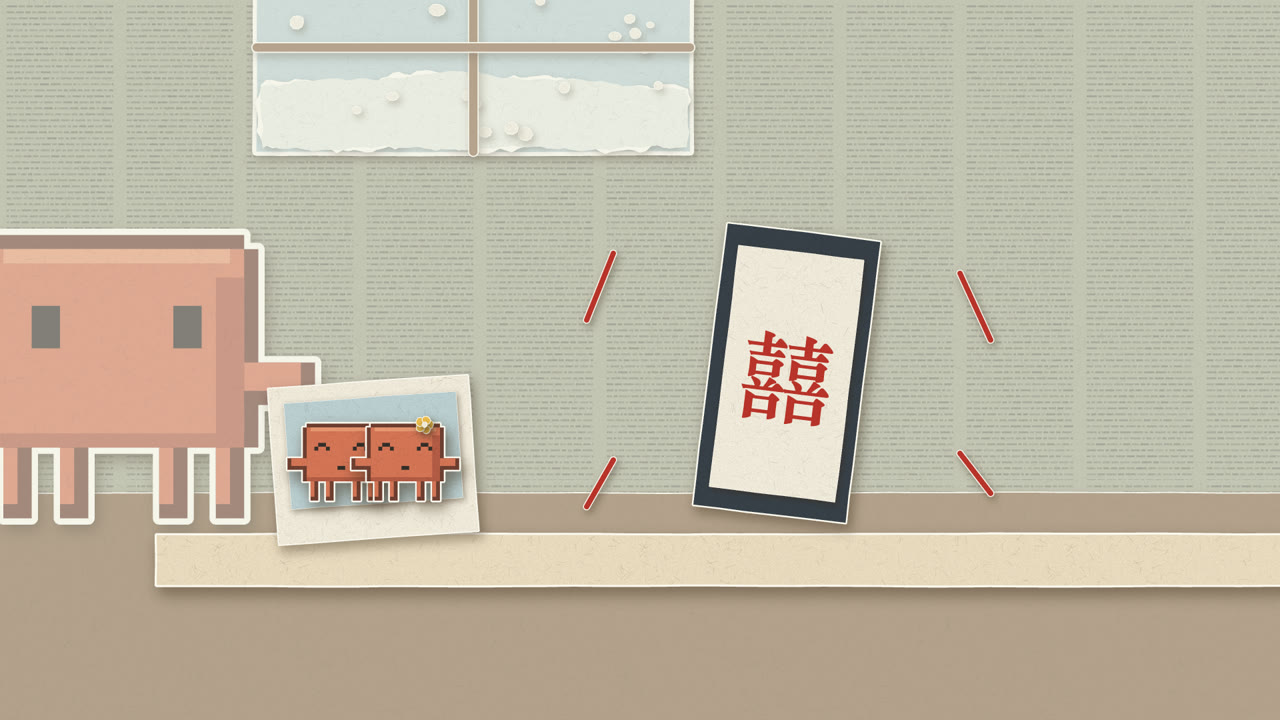
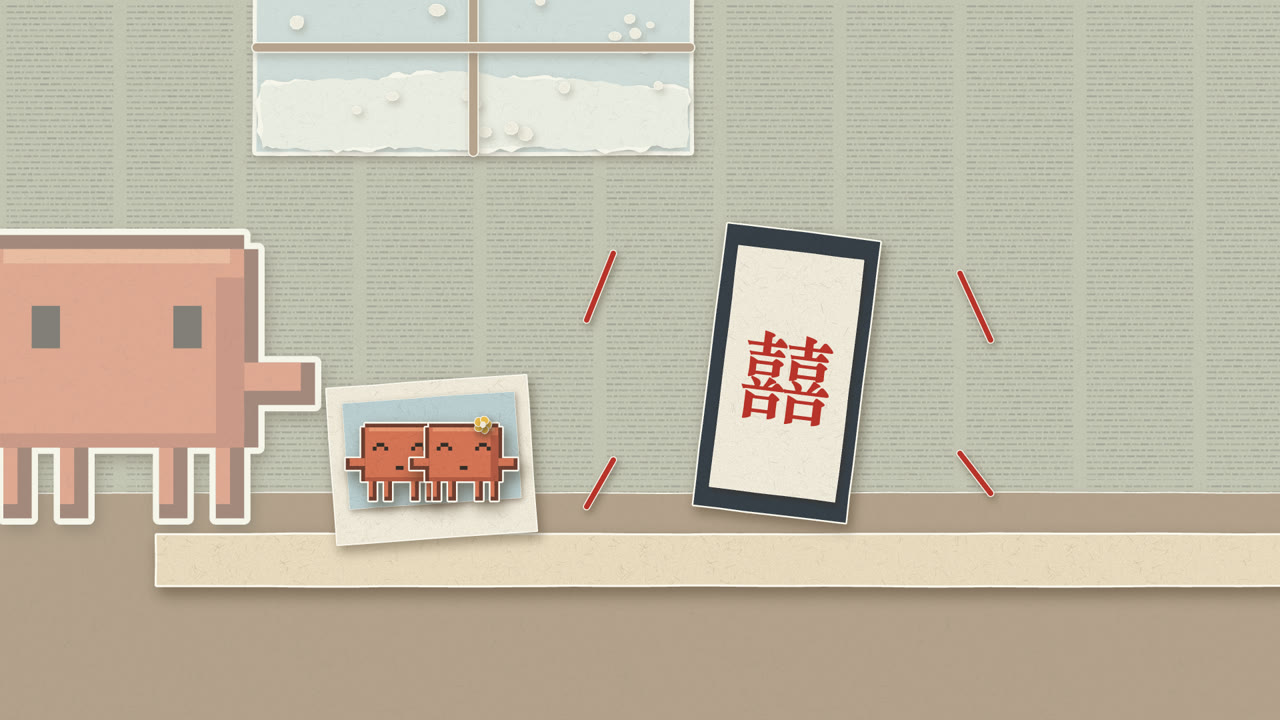
fix: correct Jiabin stills after second visual review

Changed region(s): [[0.1875, 0.5194, 0.4375, 0.7944]]

diff --git a/嘉宾/MV/poses.js b/嘉宾/MV/poses.js
@@ -29,13 +29,13 @@ const outerSill = k => {
 };
 // 礼堂只有这一个世界，近景都是同一批物件加相机。主角后面没有客人，前排也在他的正前方留出空位。
 // 相机越过前排后 front 为 false，row 为 false 时左右没有邻座。
-function hallRows(k, {clap = false, me: meOpts = {}, foot = 470, front = true, row = true, card = true, glass = true, rosette = true} = {}) {
+function hallRows(k, {clap = false, me: meOpts = {}, foot = 470, front = true, row = true, card = [1035, 478, 130, 0], glass = true, rosette = true} = {}) {
   S.hall(k, {door: true, bell: true});
   if (row) S.guests(k, 470, 6.4, [300, 480, 660, 840, 1230], {clap, seed: 3});
   const a = me(k, 1035, foot, 6.4, meOpts);
   if (rosette) S.rosette(k, a);
   S.seatTable(k, 770, 462, 1100, 'lastRow', 30);
-  if (card) S.placeCard(k, 1035, 478, 130);
+  if (card) S.placeCard(k, ...card);
   if (glass) S.glass(k, 1170, 462, 0.71);
   if (front) {
     S.guests(k, 670, 8.6, [190, 460, 730, 1320, 1580, 1780], {clap, seed: 5});
@@ -72,7 +72,7 @@ export const POSES = {
     const a = me(k, 720, 860, 17, {expression: 'sad', action: 'hold'});
     k.cut(rotated(a.grip[0] + 90, a.grip[1] - 70, 150, 170, 24), C.cream, {lift: 1.4, border: 4, name: 'calendarPage'});
     longSill(k);
-    S.oldPhoto(k, 1300, 790, 240, -4);
+    S.oldPhoto(k, 1370, 790, 240, -4);
     S.phone(k, 1796, 686, 2, {lit: false, deg: 7});
   }},
   L03: {keys: ['phone', 'phoneSign', 'photo', 'me'], draw(k) {
@@ -81,7 +81,7 @@ export const POSES = {
     me(k, 992, 860, 17);
     k.vellum(0.42);
     longSill(k);
-    S.oldPhoto(k, 1300, 790, 240, -4);
+    S.oldPhoto(k, 1370, 790, 240, -4);
     S.phone(k, 1796, 686, 2, {deg: 7});
     k.camera(960, 540, 1);
     [[920, 380, 880, 480], [1440, 410, 1486, 510], [920, 690, 880, 760], [1440, 680, 1486, 740]].forEach(([a, b, c, d]) => k.line([[a, b], [c, d]], C.red, 8, 3));
@@ -90,7 +90,7 @@ export const POSES = {
     S.roomInside(k);
     const a = me(k, 860, 900, 19, {action: 'hold'});
     longSill(k);
-    S.oldPhoto(k, 1300, 790, 240, -4);
+    S.oldPhoto(k, 1370, 790, 240, -4);
     heldPhone(k, a, 1.15);
   }},
   L05: {keys: ['me', 'bubble'], draw(k) {
@@ -265,9 +265,9 @@ export const POSES = {
     S.glass(k, a.grip[0] + 4.5, a.grip[1] + 4.5, 0.512);
   }},
   L24: {keys: ['me', 'exitDoor', 'exitSign'], draw(k) {
-    // 他把自己按低，手臂正好到桌沿高度，手臂长度不变，两手自然压在桌面上。
+    // 他把自己按低，手臂正好到桌沿高度，手臂长度不变，两手自然压在桌面上。按桌时席卡被碰歪滑开，L26 才有得扶。
     k.camera(1115, 402, 2.5);
-    const a = hallRows(k, {front: false, foot: 526, rosette: false, me: {expression: 'sad'}});
+    const a = hallRows(k, {front: false, foot: 526, rosette: false, card: [880, 478, 130, -9], me: {expression: 'sad'}});
     S.rosette(k, {chest: [a.chest[0], a.chest[1] - 16], u: a.u});
     k.camera(960, 540, 1);
     S.flakes(k, 9, 124, {x0: 1250, y0: 120, x1: 1860, y1: 760, color: C.petal, size: 26, name: 'petal'});
@@ -305,7 +305,7 @@ export const POSES = {
     k.camera(cx, cy, z);
     const a = hallRows(k, {front: false, row: false, card: false, foot: 439.8, me: {expression: 'sad', action: 'hold', deg: -7}});
     S.ticketStubs(k, 1150, 466, 0.71);
-    S.redLine(k, [world(1880, 960), world(1450, 870), a.grip], 12 / z);
+    S.redLine(k, [world(1990, 985), world(1450, 870), a.grip], 12 / z);
     k.camera(960, 540, 1);
     S.placeCard(k, 116, 753, 836, -2, 'nearCard');
   }},
@@ -343,14 +343,14 @@ export const POSES = {
   L33: {keys: ['me', 'curtain', 'spotlight', 'stageFrame'], draw(k) {
     S.paperStage(k, 1);
     S.spotlight(k, 960);
-    k.line([[915.5, 140], [915.5, 797.5]], C.gold, 6, 3, 'rope');
+    k.line([[730, 140], [730, 797.5]], C.gold, 6, 3, 'rope');
     const a = me(k, 960, 830, 13, {expression: 'sad', tint: COLD});
     S.rosette(k, a);
   }},
   L34: {keys: ['me', 'curtain', 'rope'], draw(k) {
     S.paperStage(k, 0.5);
-    S.spotlight(k, 740);
-    const a = me(k, 740, 830, 13, {expression: 'sad', action: 'hold', tint: COLD});
+    S.spotlight(k, 555);
+    const a = me(k, 554.5, 830, 13, {expression: 'sad', action: 'hold', tint: COLD});
     S.rosette(k, a);
     k.line([[a.grip[0], 140], a.grip], C.gold, 6, 3, 'rope');
   }},

diff --git a/嘉宾/MV/sets.js b/嘉宾/MV/sets.js
@@ -183,10 +183,14 @@ export function sillThings(k, {photo = true, y = 800, x = 0} = {}) {
 }
 // 屋外隔窗：相机在屋外，Clawd 在窗里面向镜头。窗内是屋内同一张纸，它不随相机缩放，穿窗时不用换背景。
 export function windowOutside(k, draw, cam = [W / 2, H / 2, 1]) {
-  roomInside(k);
   k.camera(...cam);
-  [rect(30, 26, 1860, 130), rect(30, 804, 1860, 250), rect(30, 140, 396, 680), rect(1494, 140, 396, 680)].forEach(wall => k.torn(wall, C.woodDark, {lift: 0.3}));
-  for (let x = 110; x < 1880; x += 170) if (x < 420 || x > 1500) k.line([[x, 30], [x + 4, 1050]], C.branch, 4);
+  k.torn([[30, 26], [1890, 26], [1890, 1054], [30, 1054]], C.woodDark, {lift: 0.3});
+  for (let x = 110; x < 1880; x += 170) k.line([[x, 30], [x + 4, 1050]], C.branch, 4);
+  k.clipped(rect(420, 150, 1080, 660), () => {
+    k.camera(W / 2, H / 2, 1);
+    roomInside(k, {bleed: true});
+  });
+  k.camera(...cam);
   draw();
   k.line([[960, 150], [960, 810]], C.wood, 14, 4);
   k.line([[420, 480], [1500, 480]], C.wood, 14, 4);
@@ -201,9 +205,10 @@ export function frost(k, hole, seed = 5) {
   }
 }
 // 屋内：相机在窗台一侧看 Clawd，身后是墙和日历。墙和地板向右下延伸，L03 推近窗台时不露底纸。
-export function roomInside(k, {calendar = true, windowBack = true} = {}) {
-  k.torn([[30, 26], [2460, 26], [2460, 1130], [30, 1130]], C.room, {tex: 'news', lift: 0.3});
-  k.cut(rect(30, 830, 2430, 300), C.wood, {lift: 0.6, border: 3});
+export function roomInside(k, {calendar = true, windowBack = true, bleed = false} = {}) {
+  const left = bleed ? -300 : 30, top = bleed ? -300 : 26;
+  k.torn([[left, top], [2460, top], [2460, 1130], [left, 1130]], C.room, {tex: 'news', lift: 0.3});
+  k.cut(rect(left, 830, 2460 - left, 300), C.wood, {lift: 0.6, border: 3});
   if (windowBack) {
     k.cut(rect(1160, 170, 520, 250), C.sky, {lift: 0.4, border: 10, name: 'roomWindow'});
     k.torn([[1165, 340], [1400, 325], [1676, 345], [1676, 416], [1165, 416]], C.snow, {lift: 0.2});

diff --git a/嘉宾/MV/kit.js b/嘉宾/MV/kit.js
@@ -187,6 +187,13 @@ export function createKit(canvas) {
       applyCam();
     },
     camera(cx, cy, z) { cam = {cx, cy, z}; applyCam(); },
+    // 只在 pts 范围内绘制；pts 按当前相机换算。draw 里可以换相机，结束后由调用方设回。
+    clipped(pts, draw) {
+      out.save();
+      trace(pts); out.clip();
+      draw();
+      out.restore();
+    },
     torn: (pts, color, opts = {}) => piece(pts, color, {torn: true, ...opts}),
     cut: (pts, color, opts = {}) => piece(pts, color, opts),
     line(pts, color, width, border = 0, name = null) {

diff --git a/.agent/visual/嘉宾定格按衔接表.md b/.agent/visual/嘉宾定格按衔接表.md
@@ -1,0 +1,28 @@
+# 嘉宾定格按衔接表修改后的视觉检查
+
+2026-11-02，用户明确要求查看定格。
+
+- 改动文件：`嘉宾/MV/kit.js`、`sets.js`、`poses.js`、`stage.test.mjs`；`嘉宾/storyboard.md` 的 T27、T37
+- 页面：`嘉宾/MV/index.html`，由 `hyperframes snapshot` 按每镜 poster 时间截图
+- 视口：1920×1080；检查用图 1280×720
+- 图片：`嘉宾/MV/boards/stills/frame-00.jpg` 至 `frame-51.jpg`，总览 `嘉宾/MV/boards/总览.jpg`
+
+## 发现并已修复
+
+- L24（frame-27）：人被按低后，席卡盖住嘴和半张脸，胸花盖住“宾”字。席卡改为被碰歪、滑到他左边，L26 由他扶正。
+- L33（frame-36）：幕绳落在头顶，像吊着他。幕绳移到他左边 x=730，L34 的他相应改到 (554.5, 830, 13)，T37 同步。
+- L04（frame-05）：手机盖住合照左边的人。合照在 L02–L04 同步右移 70。
+- P02、L01（frame-01、02）：墙分成四条后有白色接缝，右缘漏出房间纸，L01 左边有房间纸的撕边。墙恢复为整张，窗内用裁剪绘制。
+- L28（frame-31）：红线在画面右缘前断开。延长到画面外。
+
+## 查看范围
+
+- 单独查看：frame-01–06、08–16、19–21、24–27、29–31、36–38、40–42、45。修复后复查 frame-01、02、05、27、31、36、37。
+- 只在总览中查看：其余镜头，它们未改动或只多了窗外的路。
+
+## 仍然存在、未修改
+
+- L24 的嘴和眼泪下半被桌子挡住，只露出眉眼。这是“把自己按回座位”的代价，眉眼仍能读出难过。
+- L02 的熄屏手机比合照大很多，因为它在近处那一层，L03 推近时才合理。
+- L03 的主角只露出右半身，靠近左缘。
+- 定格无法验证运动和接缝。

diff --git a/memory/verify.md b/memory/verify.md
@@ -6,7 +6,8 @@
 - `.agent/work/嘉宾转场校验.mjs`（未提交）从 `poses.js` 取实际角色方框。写表前失败（0 行），写完通过：51 行连续，起拍与 `节拍点.csv` 一致，相接帧等于上一镜最终状态，去向等于下一镜关键画面，遮挡与撕开镜头的 `reads` 在揭开之后开始，表和 `transition_in`、`camera` 没有禁用手法。L03、L05 和两处关键画面之后的动作按脚本中的显式覆盖核对。
 - `校验嘉宾分镜.py` 错误 0；`gen-shots.mjs` 重新生成后 `shots.js` 不变。
 - 定格按表修改后：`stage.test.mjs` 新增的“定格符合衔接表”先失败（`P02 缺少 tally`）后通过，共 3 项通过；转场校验去掉 L03、L05 的覆盖后仍通过，方框来自修改后的 `poses.js`；`hyperframes check` 通过；重新导出 52 张定格，md5 互不相同，其中 37 张有变化。
-- 未执行：导出的定格没有查看（用户未要求视觉检查），测试只比较外接矩形，发现不了遮挡；运动和接缝未渲染；节拍未听辨校准。推拉 14 次是按表手工统计，脚本没有核对。
+- 用户要求查看定格：单独查看 33 张，其余看总览，修复 L24、L33、L04、P02/L01、L28 的问题并复查，记录见 `.agent/visual/嘉宾定格按衔接表.md`。新增的遮挡断言先失败后通过，`stage.test.mjs` 3 项通过，转场校验通过。
+- 未执行：运动和接缝未渲染；节拍未听辨校准。推拉 14 次是按表手工统计，脚本没有核对。
 
 ## 2026-11-02：嘉宾 MV 分镜
 

diff --git a/docs/CHANGELOG.md b/docs/CHANGELOG.md
@@ -588,3 +588,20 @@
 - **Git 提交**：`3af22be01c241acfca05e12d0cffdfd813f1a2bf feat: redraw Jiabin stills to match the transition table`；普通推送 origin/main 成功，本哈希通过后续文档提交保存。
 
 ---
+
+## [2026-11-02 22:54] 嘉宾定格视觉检查
+
+- **需求/问题描述**：
+  > 查看定格。
+
+- **实际实现的功能与改动**：
+  - 修复：L24 席卡盖脸，改为被碰歪滑开；L33 幕绳落在头顶，移到他左边，L34 的他改到 (554.5, 830, 13)；L04 手机盖住合照；P02、L01 墙的接缝和漏出的房间纸；L28 红线没到画面边缘。
+  - 验证：查看 33 张定格和总览，修复后复查 7 张；新增的遮挡断言先失败后通过，`stage.test.mjs` 3 项通过；转场校验通过；52 张定格互不相同。运动和接缝未渲染。
+
+- **涉及文件**：
+  - `嘉宾/MV/kit.js`、`sets.js`、`poses.js`、`stage.test.mjs`、`嘉宾/storyboard.md` (+37 / -19)、`嘉宾/MV/boards/`
+  - `.agent/visual/嘉宾定格按衔接表.md`、`memory/progress.md`、`memory/verify.md`、`docs/CHANGELOG.md`
+
+- **Git 提交**：待提交
+
+---

diff --git a/memory/progress.md b/memory/progress.md
@@ -4,7 +4,8 @@
 
 - [x] 推荐②卡点切换，只取前景物体遮挡；`嘉宾/storyboard.md` 写入规则和 51 条衔接（实物遮挡 19、撕开 2、同场延续 30），同步各镜 `transition_in`、`camera` 和 `reads`，校验通过。
 - [x] 用户确认衔接表，要求按表改定格：小屋、签到走廊和礼堂改为同一世界加相机，补齐物件，重新导出 52 张定格。
-- [ ] 动画和字幕尚未开始。定格未查看，运动和接缝未渲染，节拍未听辨。
+- [x] 用户要求查看定格：修复 5 处问题并复查，遗留项见 `.agent/visual/嘉宾定格按衔接表.md`。
+- [ ] 动画和字幕尚未开始。运动和接缝未渲染，节拍未听辨。
 
 ## 2026-11-02：嘉宾 MV 分镜
 
